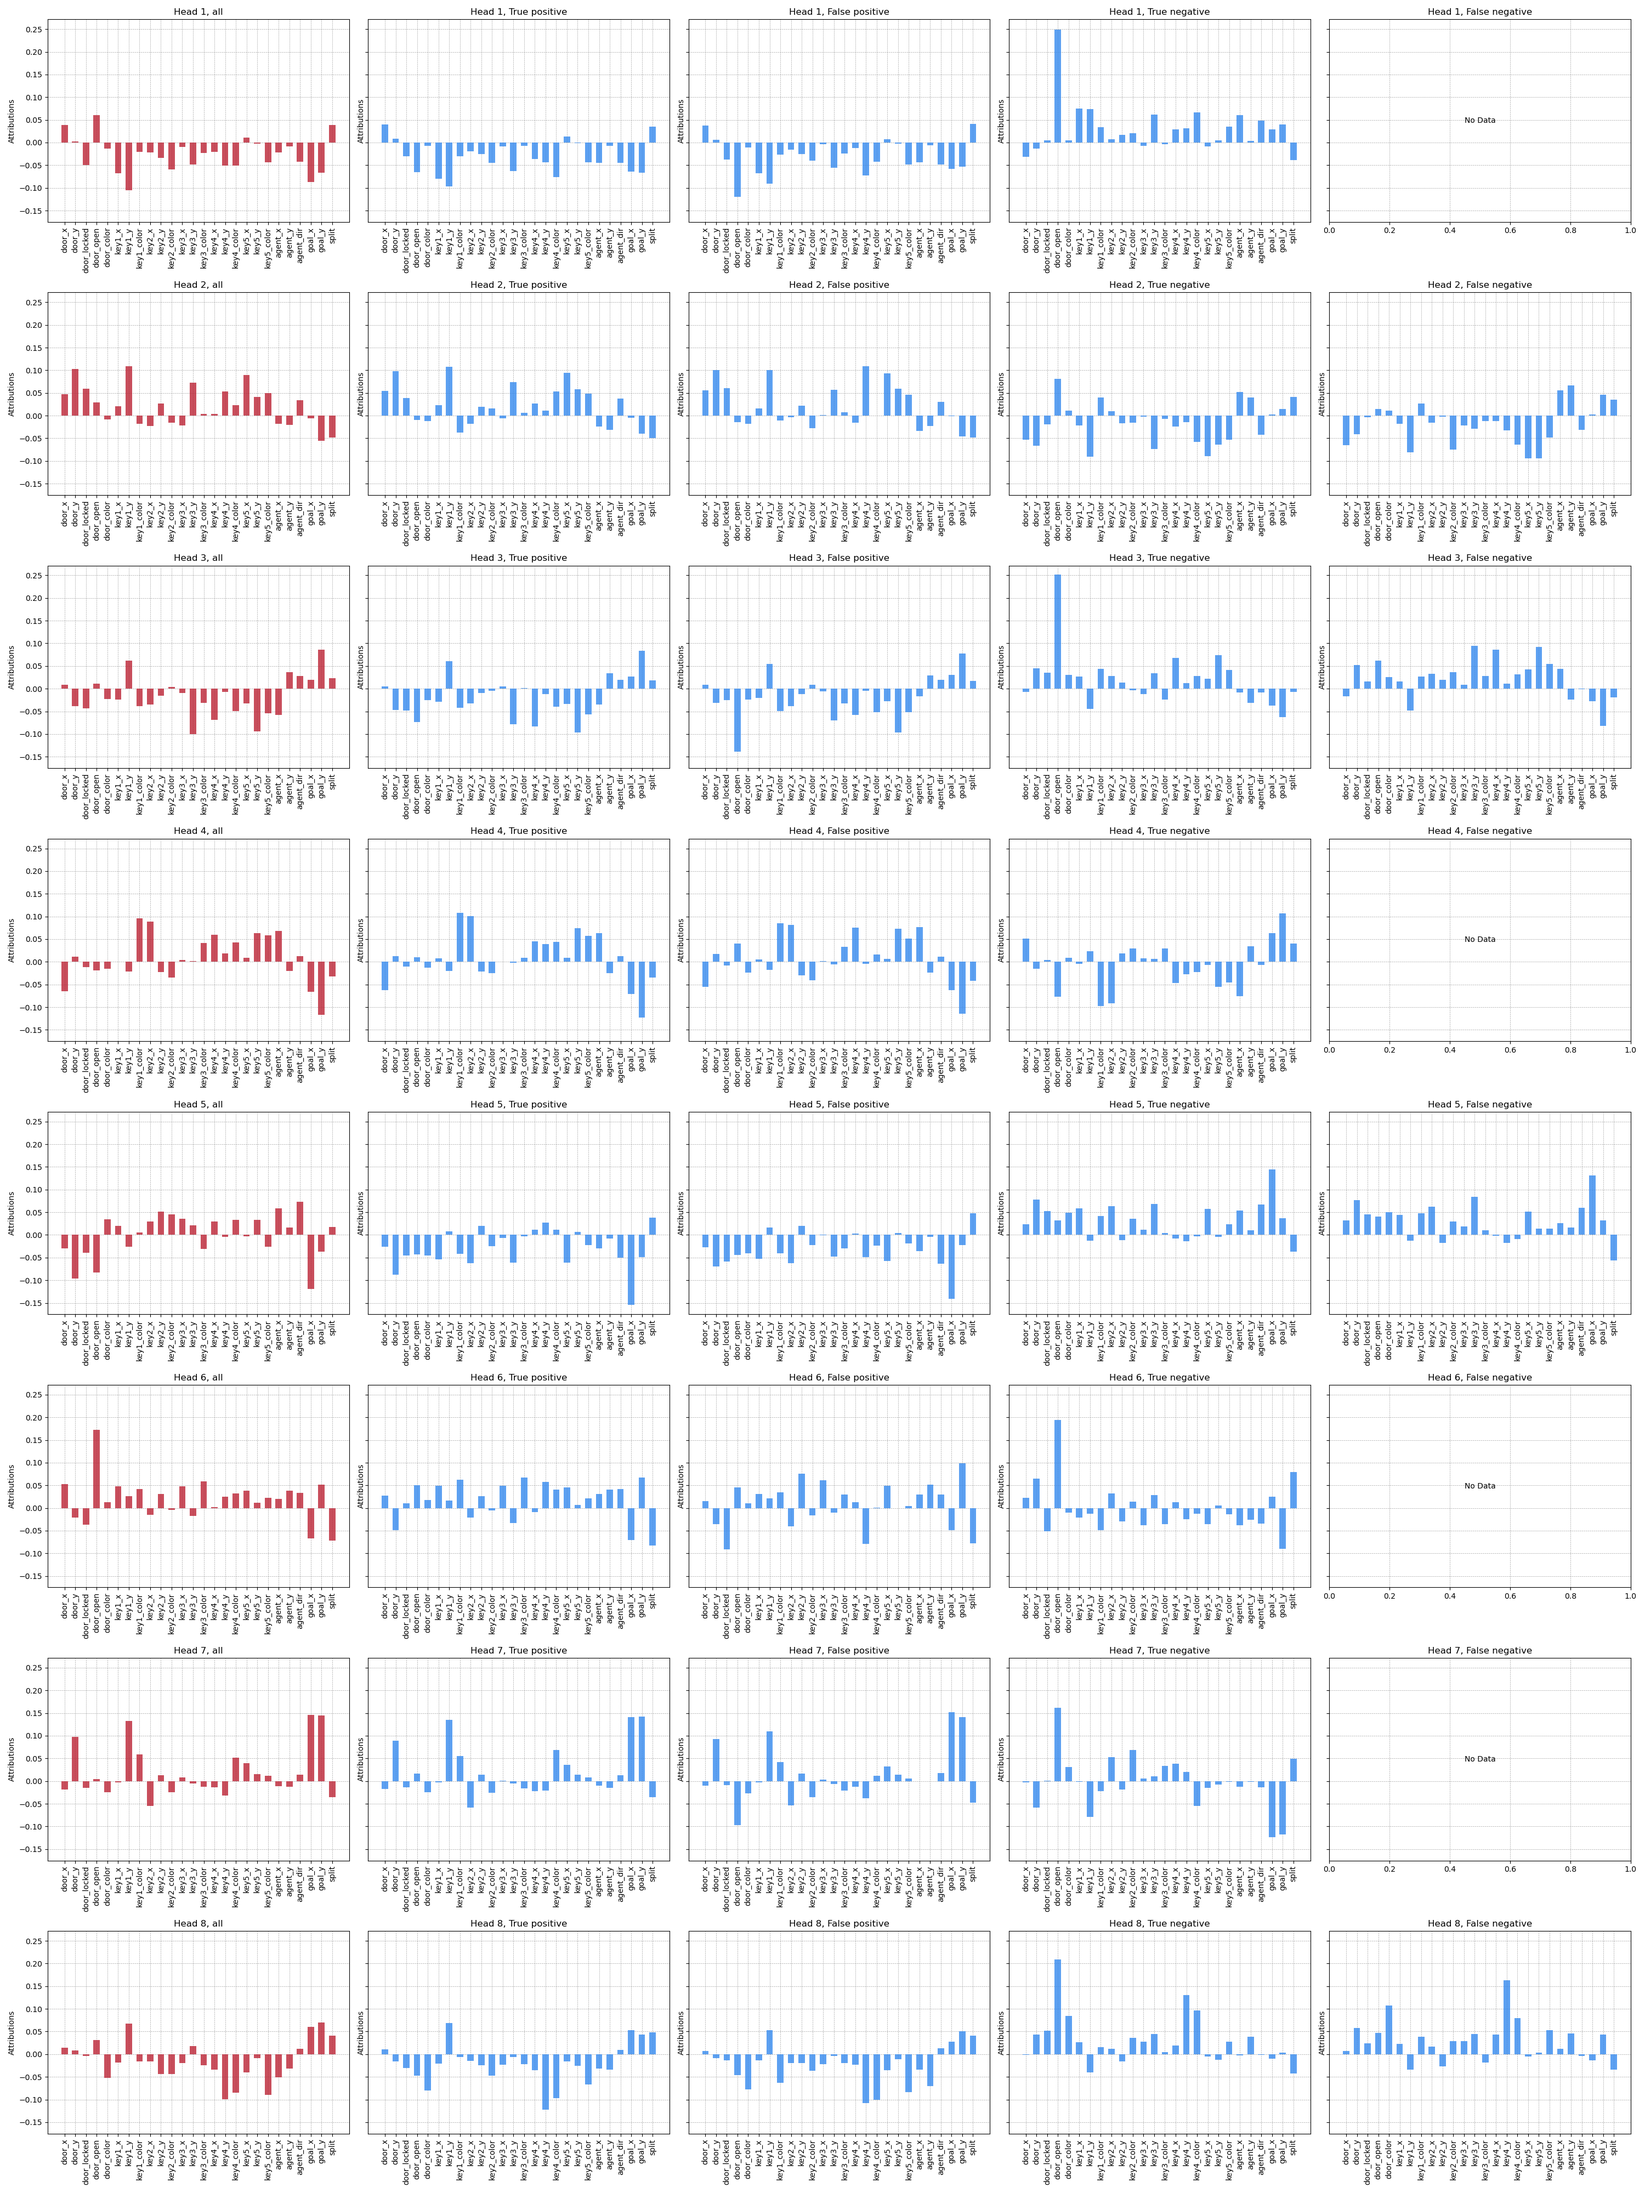
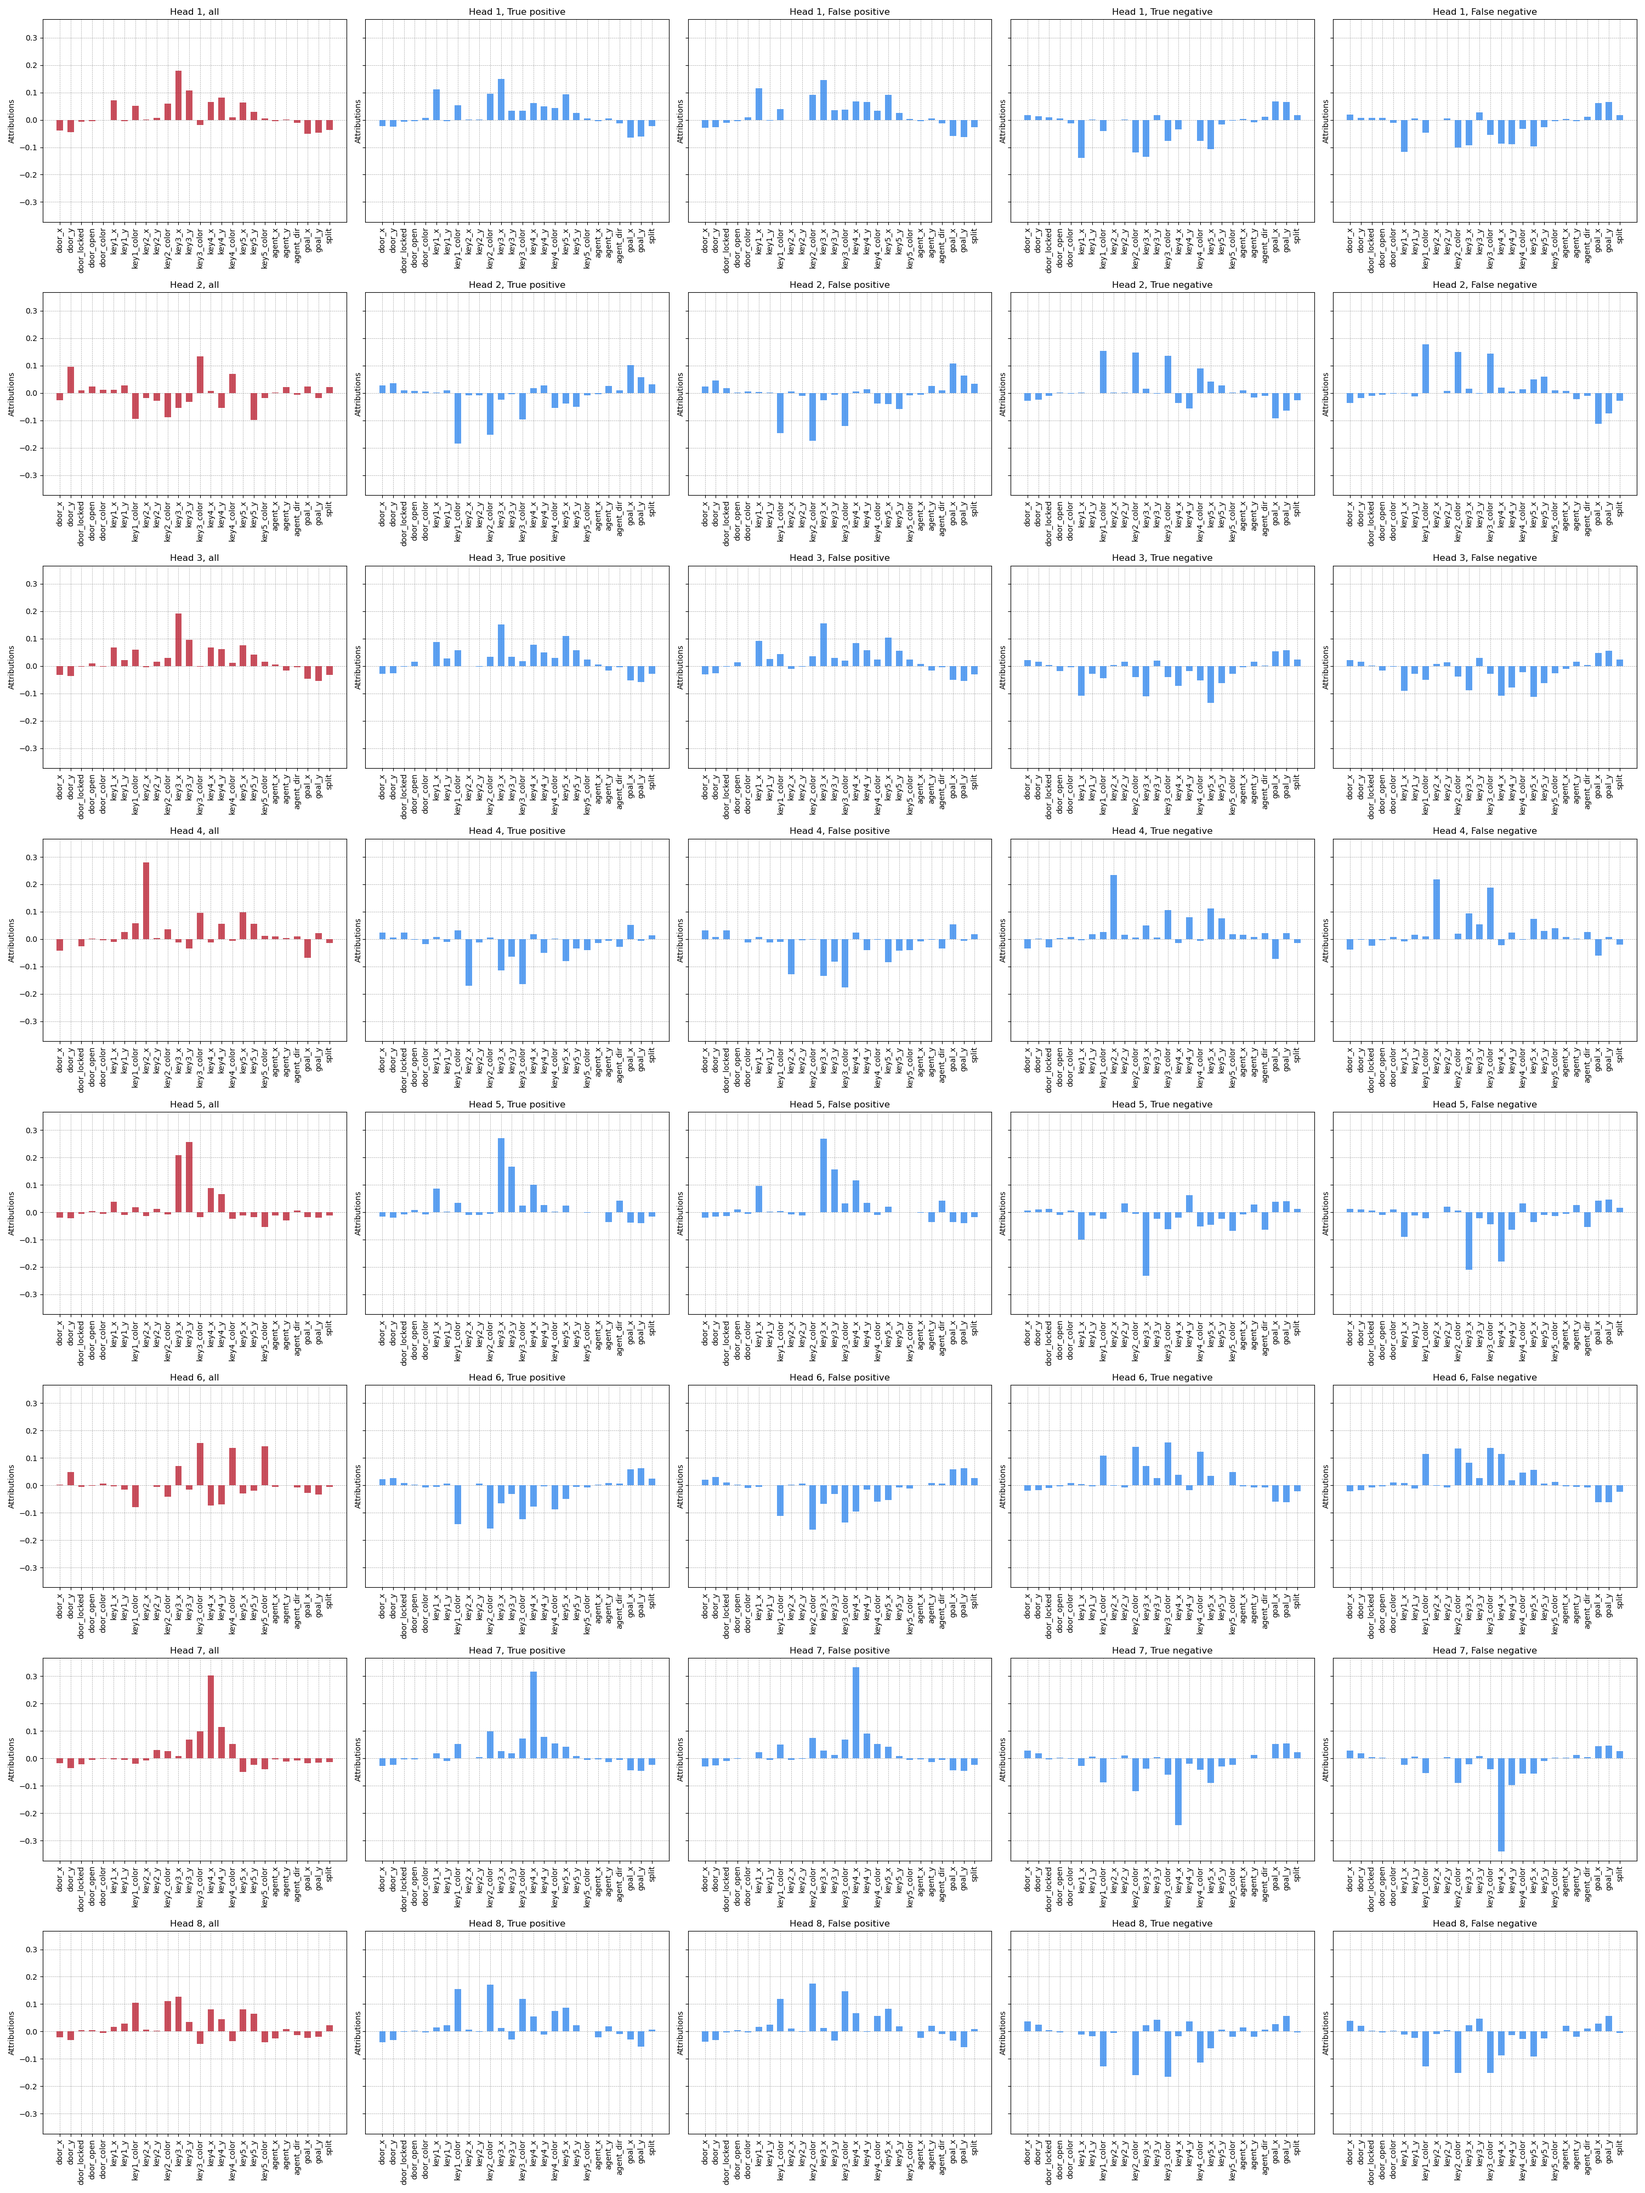
evaluator default run attribution on 10% of test data

Changed region(s): [[0.031, 0.0, 0.992, 1.0]]

diff --git a/evaluation/evaluators/divdis_evaluator.py b/evaluation/evaluators/divdis_evaluator.py
@@ -8,6 +8,7 @@ import torch
 from sklearn.metrics import confusion_matrix, classification_report, ConfusionMatrixDisplay
 import pandas as pd
 import seaborn as sns
+import multiprocess as mp
 
 from portable.option.divdis.divdis_classifier import DivDisClassifier
 from portable.option.memory.set_dataset import SetDataset
@@ -57,7 +58,8 @@ class DivDisEvaluatorClassifier():
         self.test_dataset.add_false_files(false_files)
 
 
-    def evaluate(self, num_features=26, plot=False):
+    def evaluate(self, test_sample_size=0.1, num_features=26, plot=False):
+        
         if self.image_input:
             raise NotImplementedError
 
@@ -71,8 +73,8 @@ class DivDisEvaluatorClassifier():
                               'true negative':[],
                               'false negative':[]} for _ in range(self.head_num)]
 
-        for i in range(self.test_dataset.num_batches):
-            print(f'Batch {i+1}/{self.test_dataset.num_batches}')
+        for i in range(int(self.test_dataset.num_batches*test_sample_size)): # only 10% of the test data, since attributions take too long
+            #print(f'Batch {i+1}/{self.test_dataset.num_batches}')
             
             states, labels = self.test_dataset.get_batch() # should be all data, since batchsize is max_size
             i0, i1 = i*self.test_dataset.batchsize, (i+1)*self.test_dataset.batchsize
@@ -94,6 +96,10 @@ class DivDisEvaluatorClassifier():
             labels_pred = torch.argmax(labels_pred, dim=2) # (batch_size, head_num)
             all_labels_pred[i0:i1] = labels_pred.to('cpu').numpy()
 
+            '''with mp.Pool(processes=self.head_num) as pool:
+                pool.starmap(_attributions_factored, 
+                            [(self.ig_attr_test[i], self.integrated_gradients[i], states, labels, labels_pred[:,i], i) for i in range(self.head_num)])'''
+                
             for head_idx in range(self.head_num):
                 # get the predictions for the head
                 labels_pred_head = labels_pred[:, head_idx]
@@ -110,9 +116,9 @@ class DivDisEvaluatorClassifier():
                 self.ig_attr_test[head_idx]['false positive'].append(self.integrated_gradients[head_idx].attribute(states_fp, target=1).detach().to('cpu').numpy()) if len(states_fp) > 0 else np.array([])
                 self.ig_attr_test[head_idx]['false negative'].append(self.integrated_gradients[head_idx].attribute(states_fn, target=0).detach().to('cpu').numpy()) if len(states_fn) > 0 else np.array([])
 
-                print(f'Head {head_idx+1} done')
-                print(torch.cuda.memory_allocated() / 1e9, 'GB')
-                print(torch.cuda.memory_reserved() / 1e9, 'GB')
+                #print(f'Head {head_idx+1} done')
+                #print(torch.cuda.memory_allocated() / 1e9, 'GB')
+                #print(torch.cuda.memory_reserved() / 1e9, 'GB')
 
         self.ig_attr_test = [{k: np.concatenate(v) if len(v)>0 else np.array([]) for k, v in ig_attr_head.items()} for ig_attr_head in self.ig_attr_test]
         
@@ -131,6 +137,7 @@ class DivDisEvaluatorClassifier():
             self._plot_attributions_factored(num_features)
             self._plot_cm_cr()
         
+
 
     '''
     def evaluate_old(self, num_images):
@@ -360,3 +367,21 @@ class DivDisEvaluatorClassifier():
             ig_attr_test_std = ig_attr_test.std(0)
             head_complexity.append(ig_attr_test_std.mean())
         return head_complexity
+
+
+def _attributions_factored(ig_attr, ig, states, labels, labels_pred_head, head_idx):
+    # attributions
+    states_tp = states[(labels == 1) & (labels_pred_head == 1)]
+    states_tn = states[(labels == 0) & (labels_pred_head == 0)]
+    states_fp = states[(labels == 0) & (labels_pred_head == 1)]
+    states_fn = states[(labels == 1) & (labels_pred_head == 0)]
+
+    ig_attr['all'].append(ig.attribute(states, target=labels_pred_head).detach().to('cpu').numpy()) if len(states) > 0 else np.array([])
+    ig_attr['true positive'].append(ig.attribute(states_tp, target=1).detach().to('cpu').numpy()) if len(states_tp) > 0 else np.array([])
+    ig_attr['true negative'].append(ig.attribute(states_tn, target=0).detach().to('cpu').numpy()) if len(states_tn) > 0 else np.array([])
+    ig_attr['false positive'].append(ig.attribute(states_fp, target=1).detach().to('cpu').numpy()) if len(states_fp) > 0 else np.array([])
+    ig_attr['false negative'].append(ig.attribute(states_fn, target=0).detach().to('cpu').numpy()) if len(states_fn) > 0 else np.array([])
+
+    print(f'Head {head_idx+1} done')
+    print(torch.cuda.memory_allocated() / 1e9, 'GB')
+    print(torch.cuda.memory_reserved() / 1e9, 'GB')

diff --git a/evaluation/divdis_classifier_evaluation.py b/evaluation/divdis_classifier_evaluation.py
@@ -1,15 +1,15 @@
-from ast import Div
-import os
 import argparse
-from portable.option.divdis.divdis_classifier import DivDisClassifier
-from portable.utils.utils import load_gin_configs
+import os
+import random
 
-import torch 
-import random 
+import multiprocess as mp
+import torch
 
 from evaluation.evaluators import DivDisEvaluatorClassifier
-from experiments.divdis_minigrid.core.advanced_minigrid_factored_divdis_classifier_experiment import AdvancedMinigridFactoredDivDisClassifierExperiment
-
+from experiments.divdis_minigrid.core.advanced_minigrid_factored_divdis_classifier_experiment import \
+    AdvancedMinigridFactoredDivDisClassifierExperiment
+from portable.option.divdis.divdis_classifier import DivDisClassifier
+from portable.utils.utils import load_gin_configs
 
 '''positive_train_files = ["resources/factored_minigrid_images/adv_doorkey_8x8_v2_openreddoor_doorred_0_initiation_positive.npy"]
 negative_train_files = ["resources/factored_minigrid_images/adv_doorkey_8x8_v2_openreddoor_doorred_0_initiation_negative.npy"]
@@ -112,11 +112,13 @@ if __name__ == "__main__":
     classifier.add_data(positive_train_files,
                         negative_train_files,
                         unlabelled_train_files)
-    classifier.train(100)
+    classifier.train(50)
+
+    mp.set_start_method('spawn')
 
     evaluator = DivDisEvaluatorClassifier(
                     classifier,
-                    batch_size=10000,
+                    batch_size=800,
                     base_dir=args.base_dir)
 
     evaluator.add_test_files(positive_test_files, negative_test_files)

diff --git a/experiments/divdis_minigrid/core/advanced_minigrid_factored_divdis_sweep_experiment.py b/experiments/divdis_minigrid/core/advanced_minigrid_factored_divdis_sweep_experiment.py
@@ -120,10 +120,10 @@ class FactoredAdvancedMinigridDivDisSweepExperiment():
         return accuracy_pos, accuracy_neg, accuracy, weighted_acc
 
     def head_complexity(self, classifier):
-        evaluator = DivDisEvaluatorClassifier(classifier, self.plot_dir)
+        evaluator = DivDisEvaluatorClassifier(classifier, batch_size=1000, base_dir=self.base_dir)
         evaluator.add_test_files(self.test_positive_files, self.test_negative_files)
         evaluator.test_dataset.set_transform_function(transform)
-        evaluator.evaluate(num_sample=1e6, num_features=26)
+        evaluator.evaluate(num_features=26)
         return evaluator.get_head_complexity()
 
     def save_results_dict(self,
